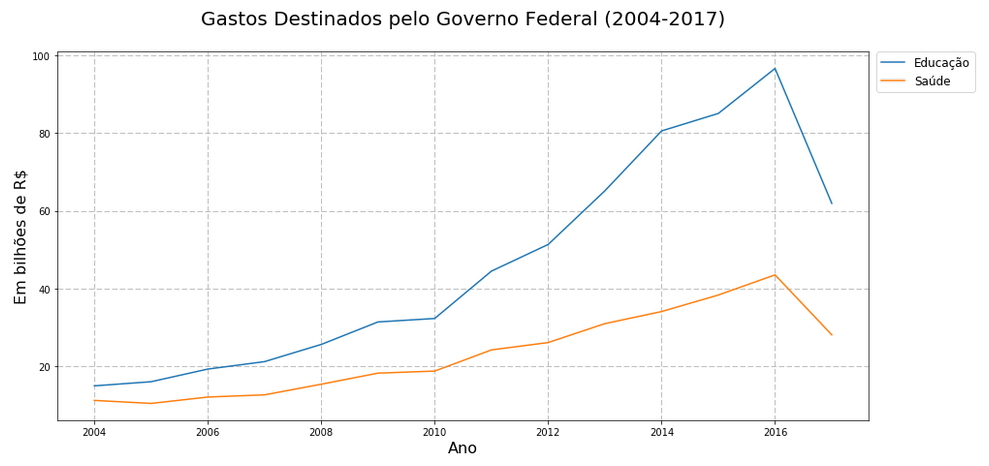
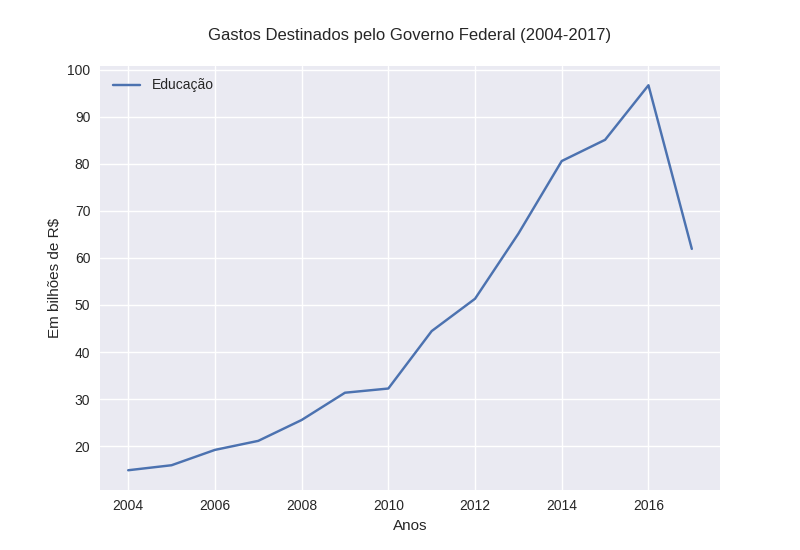
post updated

diff --git a/_posts/2017-10-13-hackeando-gastos-governamentais-com-python-3.md b/_posts/2017-10-13-hackeando-gastos-governamentais-com-python-3.md
@@ -7,6 +7,9 @@ categories: [python]
 tags: [jupyter notebook, beautifulsoup, python]
 
 ---
+
+\[UPDATE\]: 09/11/2017
+
 Ontem, 12 de outubro, aproveitei para publicar um pequeno projeto que desenvolvi em alguns dias. Postei nos grupos do Facebook Python Brasil e A.P.D.A., al&eacute;m da minha timeline. Obtive um feedback bem legal e maior do que eu esperava. E neste post iremos tratar sobre esse projeto.
 
 &Eacute; de conhecimento comum que d&aacute; pra fazer v&aacute;rias coisas com uma linguagem de programa&ccedil;&atilde;o. Aprender tudo sobre uma &eacute; praticamente imposs&iacute;vel, para meros mortais. Por isso, &eacute; importante encontrar um foco. Em tese, deve ser algo desafiador e que desperte o interesse de quem est&aacute; escrevendo os c&oacute;digos. Eu fui atr&aacute;s do meu foco, se encontrei eu n&atilde;o sei. Mas estou gostando de raspagem de dados.
@@ -53,7 +56,7 @@ Dessa forma, temos para cada &oacute;rg&atilde;o superior uma lista de valores e
 
 ## Resultados
 
-&Eacute; poss&iacute;vel gerar os gr&aacute;ficos por &oacute;rg&atilde;o superior, isso totaliza 7 gr&aacute;ficos. Somado a isso, o c&oacute;digo permite plotar gr&aacute;ficos com mais de um &oacute;rg&atilde;o superior, o que &eacute; ideal quando se quer comparar gr&aacute;ficos. Abaixo s&atilde;o apresentados 4 gr&aacute;ficos, onde: a) compara os gastos entre a Presid&ecirc;ncia da Rep&uacute;blica, e Minist&eacute;rios da Ci&ecirc;ncia e Tecnologia, Meio Ambiente e Esporte; b) compara os gastos entre os Minist&eacute;rios de Educa&ccedil;&atilde;o e Sa&uacute;de; c) compara os gastos entre os Minist&eacute;rios de Educa&ccedil;&atilde;o, Previd&ecirc;ncia Social e Sa&uacute;de; d) e, por &uacute;ltimo, compara os gastos entre os Minist&eacute;rios de Meio Ambiente e Esporte.
+&Eacute; poss&iacute;vel gerar os gr&aacute;ficos por &oacute;rg&atilde;o superior, isso totaliza 7 gr&aacute;ficos. Somado a isso, o c&oacute;digo permite plotar gr&aacute;ficos com mais de um &oacute;rg&atilde;o superior, o que &eacute; ideal quando se quer comparar gr&aacute;ficos. Abaixo s&atilde;o apresentados 4 gr&aacute;ficos, onde: a) compara os gastos entre todos os órgãos superiores já citados; b) mostra os gastos com a educação; c) mostra os gastos com a saúde; d) mostra os gastos com a previdência privada; e e) mostra os gastos com a presidência da república.
 
 a) ![Gráfico 01]({{site.baseurl}}/assets/img/post006/post06-graf01.png)
 
@@ -62,6 +65,8 @@ b) ![Gráfico 02]({{site.baseurl}}/assets/img/post006/post06-graf02.png)
 c) ![Gráfico 03]({{site.baseurl}}/assets/img/post006/post06-graf03.png)
 
 d) ![Gráfico 04]({{site.baseurl}}/assets/img/post006/post06-graf04.png)
+
+e) ![Gráfico 04]({{site.baseurl}}/assets/img/post006/post06-graf05.png)
 
 A inten&ccedil;&atilde;o deste pequeno projeto foi somente a de aprender e praticar raspagem de dados utilizando Python. Em rela&ccedil;&atilde;o as an&aacute;lises acerca do momento econ&ocirc;mico e pol&iacute;tico no qual o Pa&iacute;s vive(u) fica por conta do leitor. Vale ressaltar que esses valores s&atilde;o os divulgados pelo pr&oacute;prio Governo.
 
